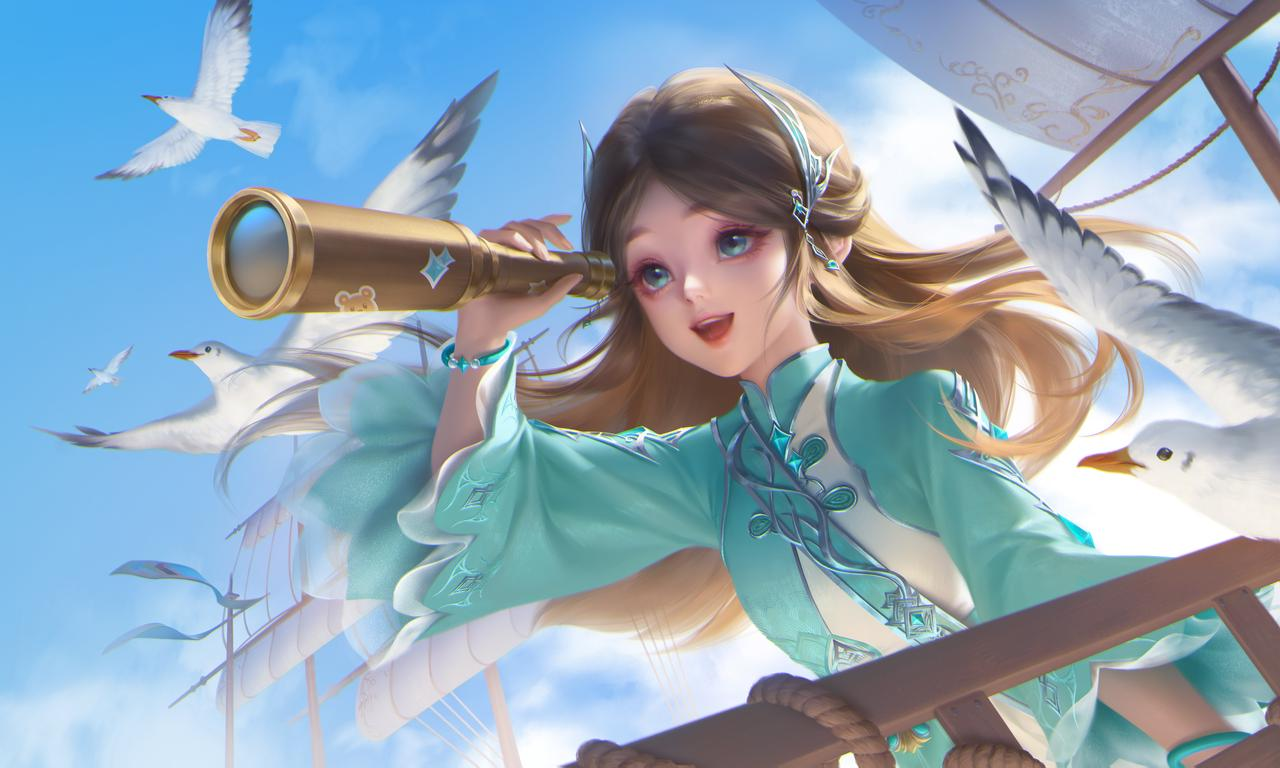
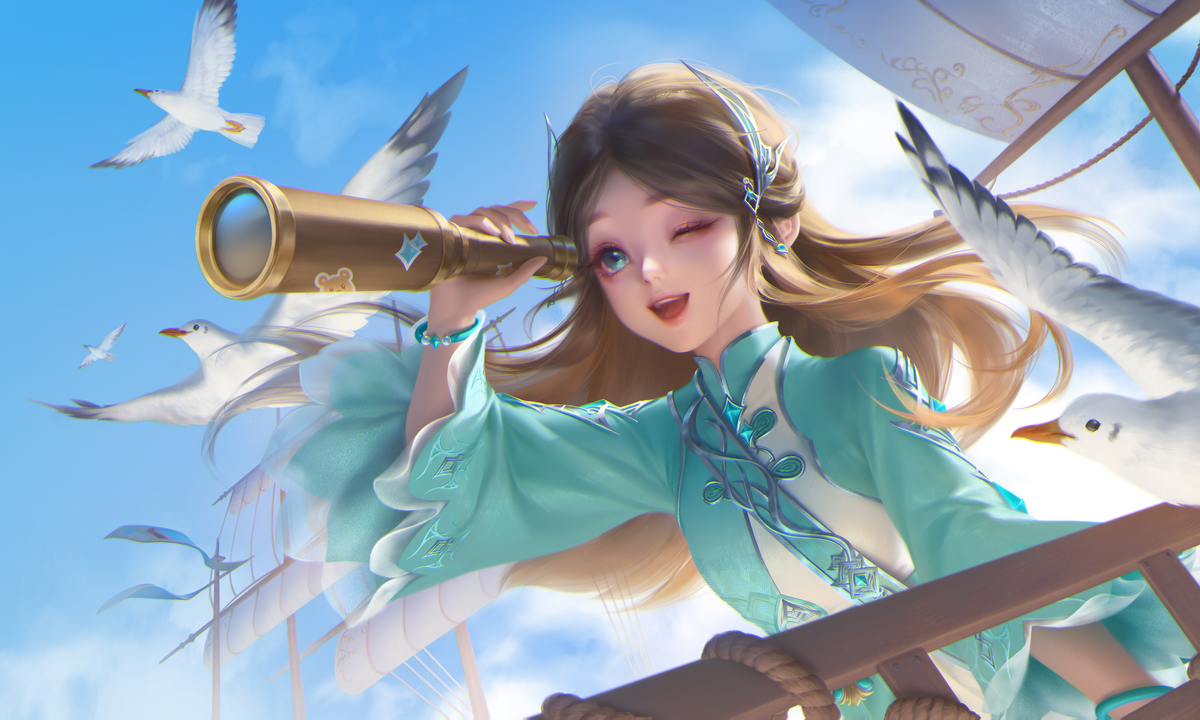
feat: 替换远航 (1_1) 预览图为正式素材，版本 bump 至 1.1.0

diff --git a/CHANGELOG.md b/CHANGELOG.md
@@ -4,6 +4,13 @@
 
 ---
 
+## [1.1.0] - 2026-07-20
+
+### 变更
+- 替换「远航」（1_1）预览图为正式素材（1200×720，PNG 格式，约 1MB）
+
+---
+
 ## [1.0.1] - 2026-07-20
 
 ### 新增
